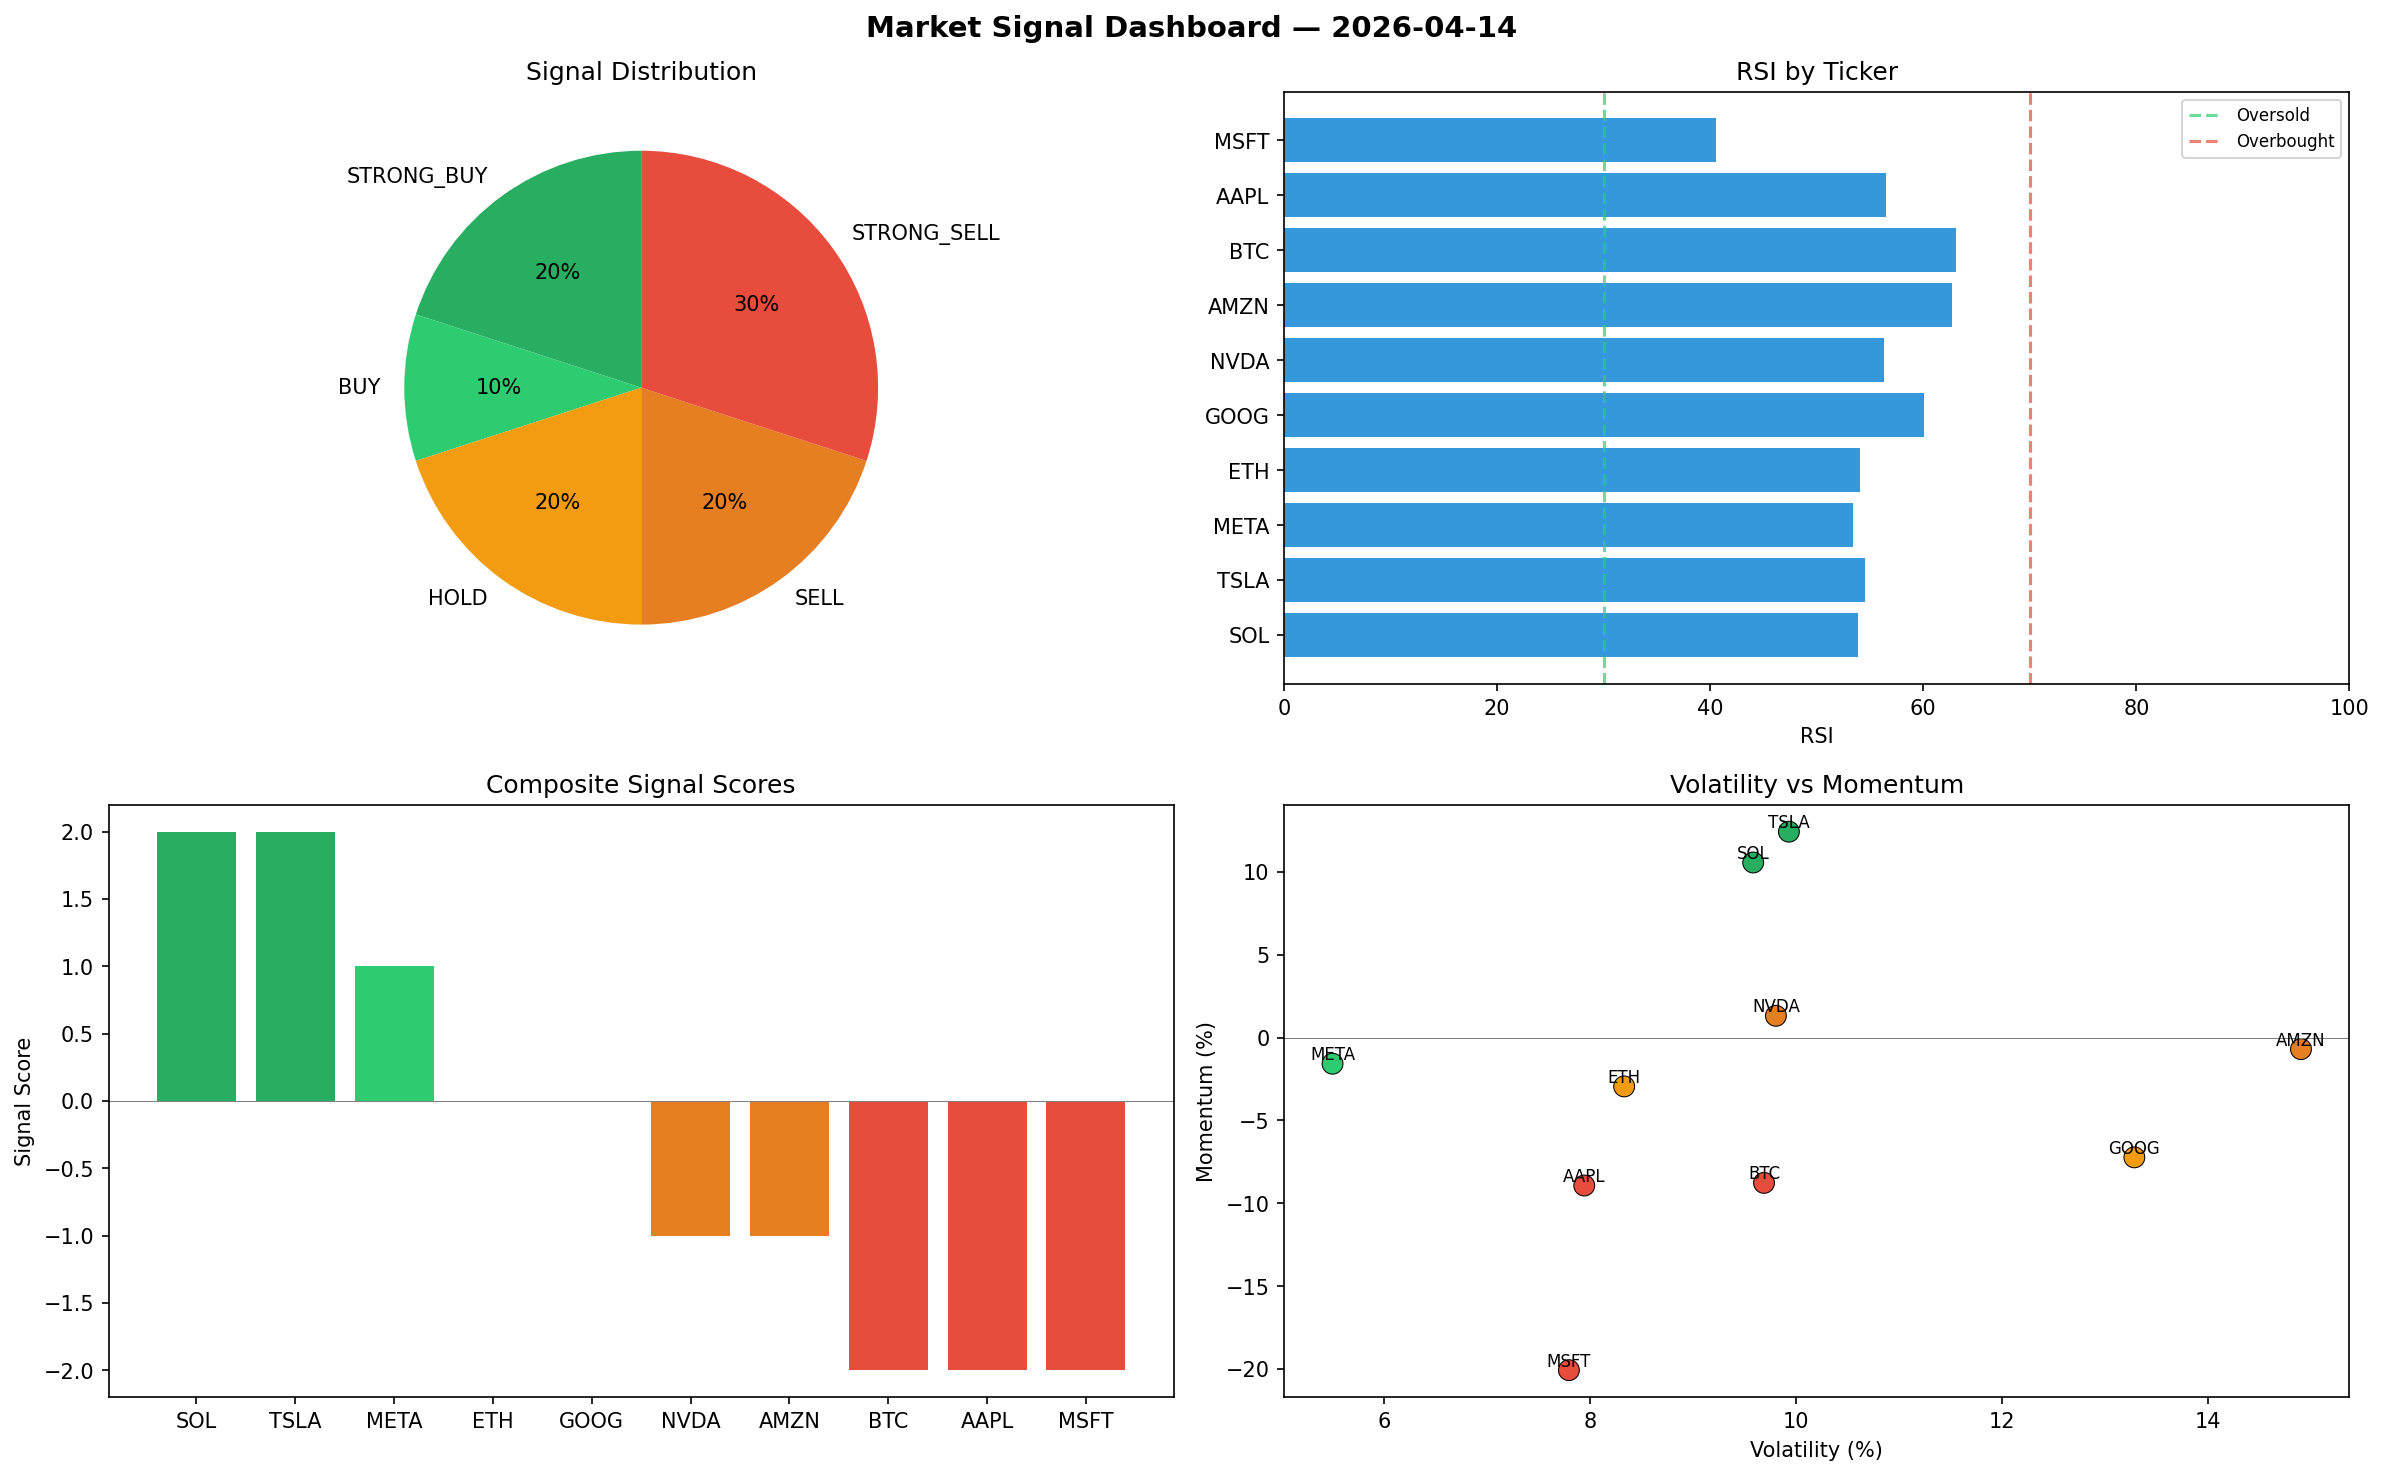
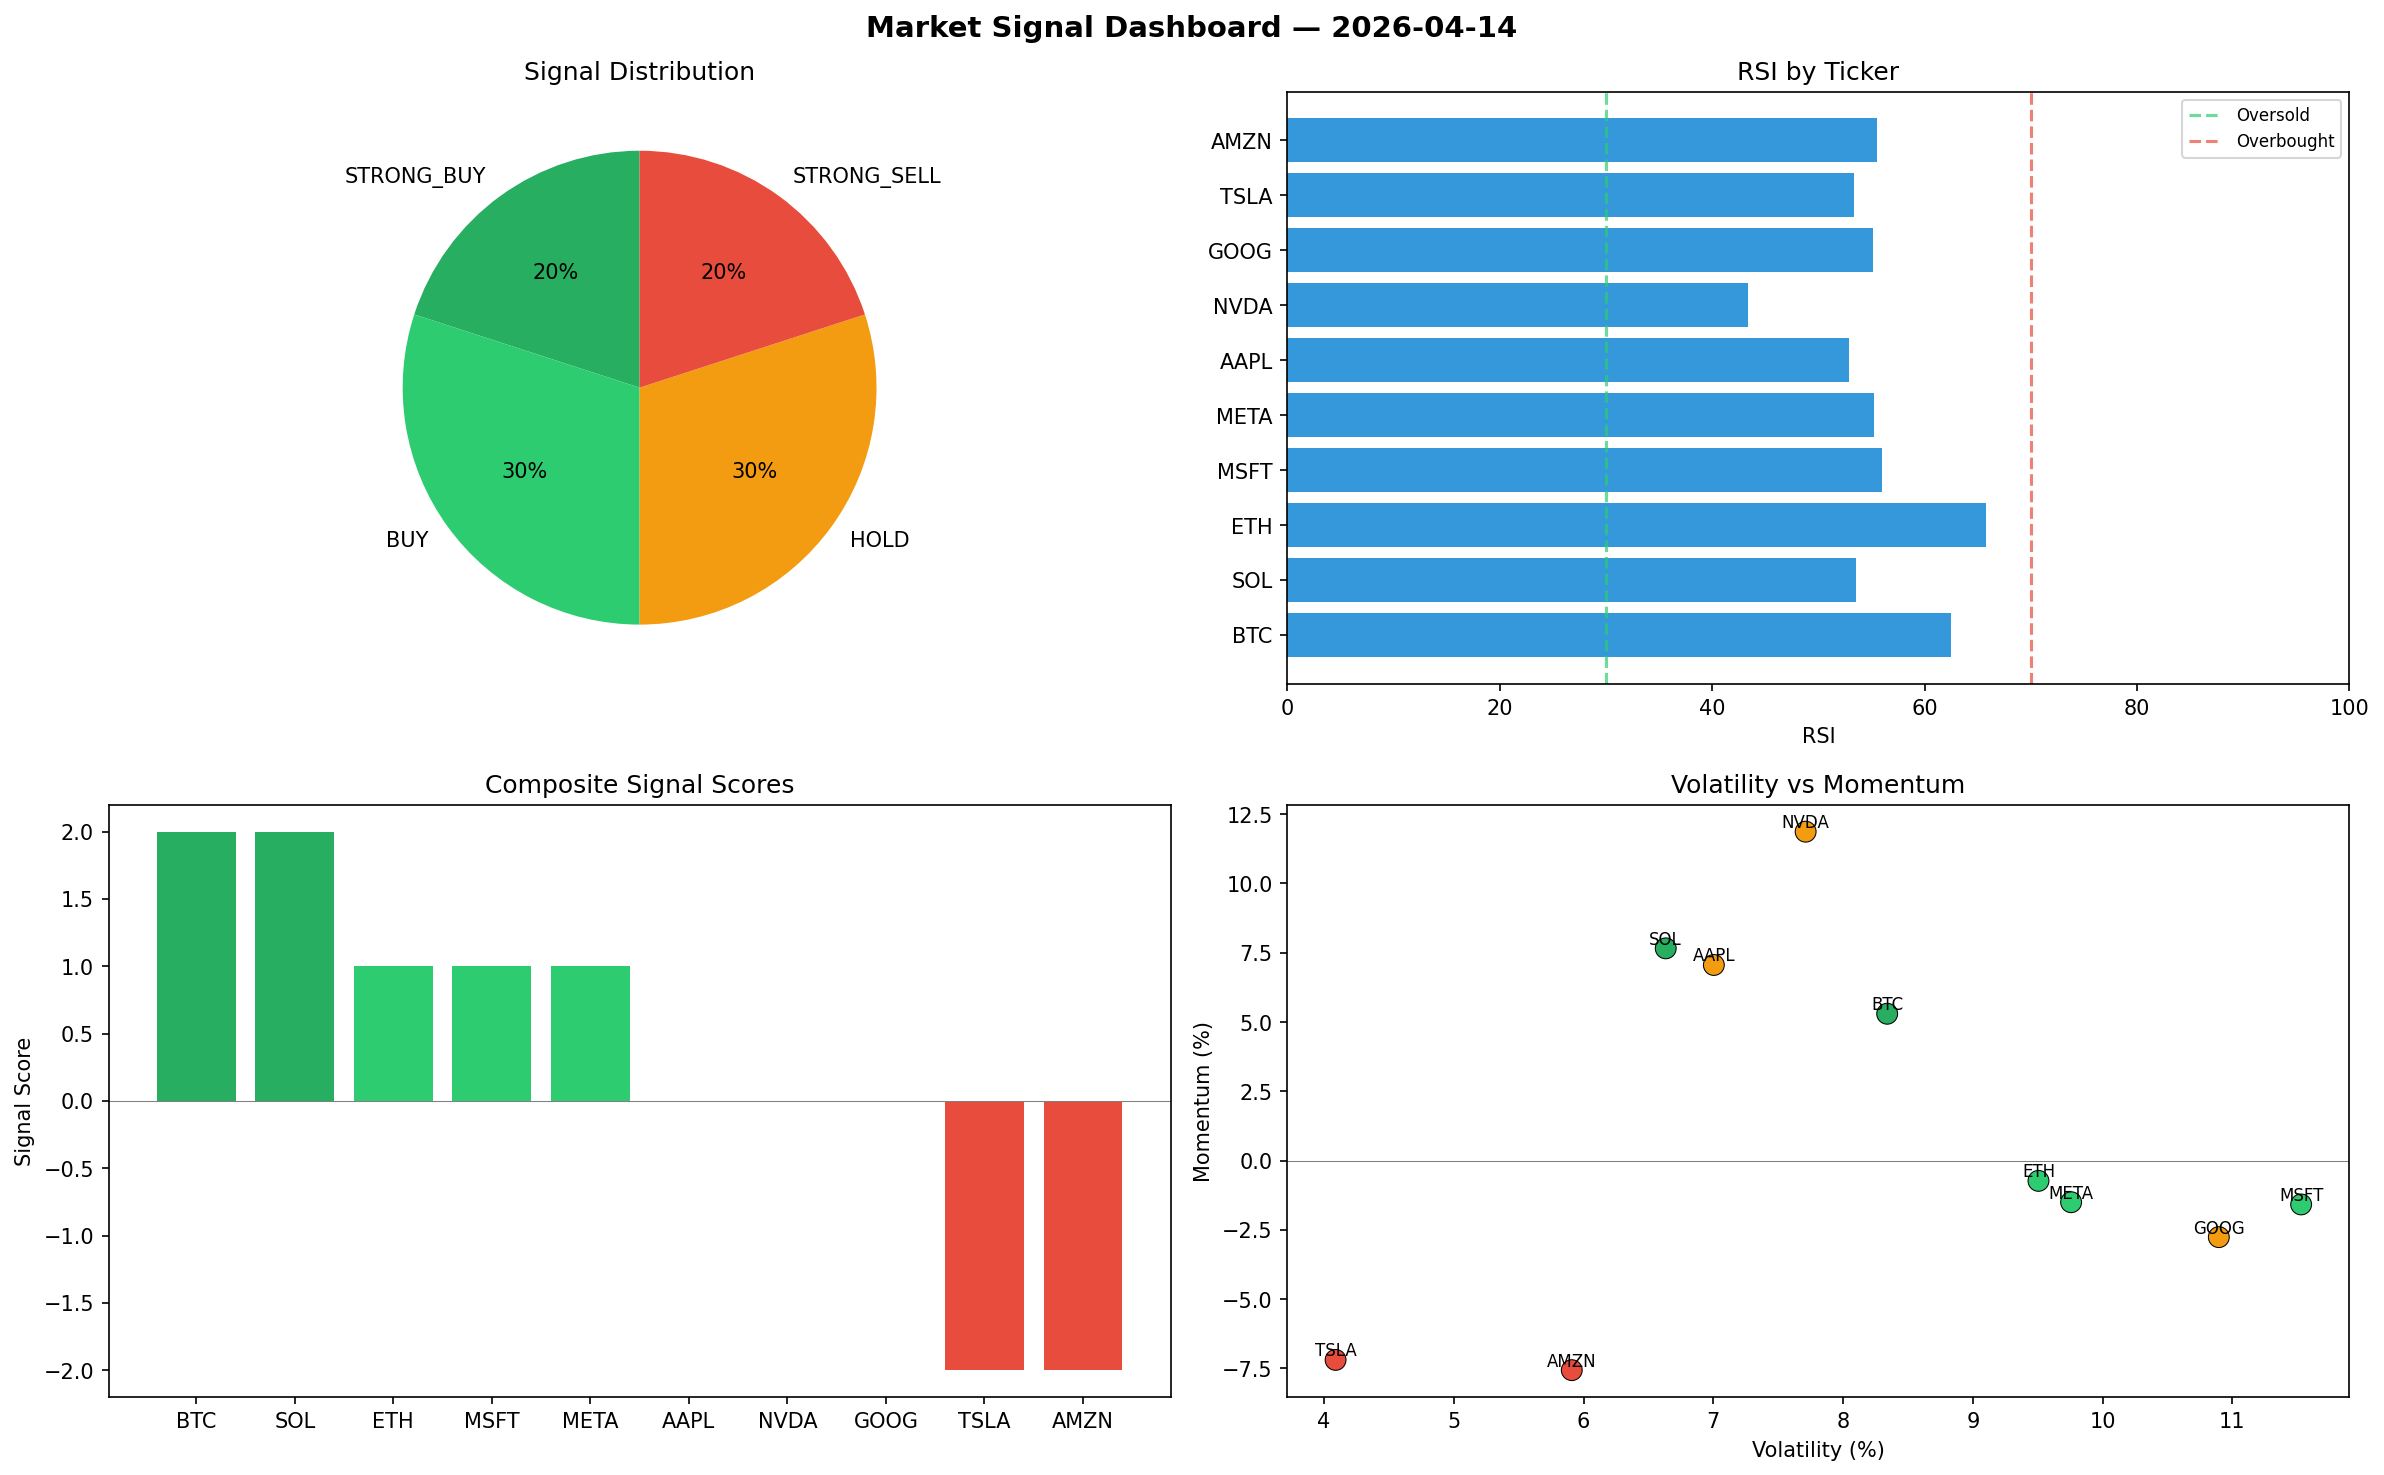
automated-bots: market signals 2026-04-14T09:53

diff --git a/logs/2026-04-14.md b/logs/2026-04-14.md
@@ -1,6 +1,6 @@
 # Market Signal Report — 2026-04-14
 
-**Run ID:** `b0e3338cef` | **Buy:** 3 | **Sell:** 5 | **Hold:** 2
+**Run ID:** `34f937ca50` | **Buy:** 5 | **Sell:** 2 | **Hold:** 3
 
 ![Dashboard](2026-04-14_dashboard.png)
 
@@ -8,28 +8,28 @@
 
 | Ticker | Price | Signal | Score | RSI | Momentum | Confidence |
 |--------|-------|--------|-------|-----|----------|------------|
-| SOL | $4181.54 | **STRONG_BUY** | 2 | 53.83 | 0.1056 | 0.5 |
-| TSLA | $1337.82 | **STRONG_BUY** | 2 | 54.53 | 0.1242 | 0.5 |
-| META | $4056.34 | **BUY** | 1 | 53.38 | -0.0158 | 0.25 |
-| ETH | $3274.8 | **HOLD** | 0 | 54.09 | -0.0295 | 0.0 |
-| GOOG | $2450.97 | **HOLD** | 0 | 60.09 | -0.0723 | 0.0 |
-| NVDA | $547.08 | **SELL** | -1 | 56.27 | 0.0131 | 0.25 |
-| AMZN | $4447.52 | **SELL** | -1 | 62.74 | -0.007 | 0.25 |
-| BTC | $2976.17 | **STRONG_SELL** | -2 | 63.06 | -0.0877 | 0.5 |
-| AAPL | $453.6 | **STRONG_SELL** | -2 | 56.54 | -0.0893 | 0.5 |
-| MSFT | $80.95 | **STRONG_SELL** | -2 | 40.55 | -0.2007 | 0.5 |
+| BTC | $2625.03 | **STRONG_BUY** | 2 | 62.48 | 0.053 | 0.5 |
+| SOL | $4375.98 | **STRONG_BUY** | 2 | 53.52 | 0.0766 | 0.5 |
+| ETH | $544.89 | **BUY** | 1 | 65.8 | -0.0073 | 0.25 |
+| MSFT | $4157.05 | **BUY** | 1 | 55.95 | -0.0158 | 0.25 |
+| META | $2600.38 | **BUY** | 1 | 55.21 | -0.015 | 0.25 |
+| AAPL | $2343.65 | **HOLD** | 0 | 52.86 | 0.0706 | 0.0 |
+| NVDA | $1981.56 | **HOLD** | 0 | 43.4 | 0.1187 | 0.0 |
+| GOOG | $1870.33 | **HOLD** | 0 | 55.11 | -0.0276 | 0.0 |
+| TSLA | $3343.24 | **STRONG_SELL** | -2 | 53.32 | -0.0719 | 0.5 |
+| AMZN | $3291.71 | **STRONG_SELL** | -2 | 55.49 | -0.0756 | 0.5 |
 
 ## Delta vs Yesterday
 
 | Ticker | Today | Yesterday | Price Change | Signal Changed |
 |--------|-------|-----------|-------------|----------------|
-| SOL | STRONG_BUY | STRONG_BUY | 📈 5015.03% | — |
-| TSLA | STRONG_BUY | STRONG_BUY | 📈 3.63% | — |
-| META | BUY | STRONG_SELL | 📈 31.89% | ⚠ YES |
-| ETH | HOLD | HOLD | 📈 43.35% | — |
-| GOOG | HOLD | STRONG_SELL | 📈 23.77% | ⚠ YES |
-| NVDA | SELL | HOLD | 📉 -54.66% | ⚠ YES |
-| AMZN | SELL | BUY | 📈 21.45% | ⚠ YES |
-| BTC | STRONG_SELL | HOLD | 📈 127.45% | ⚠ YES |
-| AAPL | STRONG_SELL | HOLD | 📉 -65.71% | ⚠ YES |
-| MSFT | STRONG_SELL | SELL | 📉 -98.26% | ⚠ YES |
+| BTC | STRONG_BUY | HOLD | 📈 100.61% | ⚠ YES |
+| SOL | STRONG_BUY | STRONG_BUY | 📈 5252.88% | — |
+| ETH | BUY | HOLD | 📉 -76.15% | ⚠ YES |
+| MSFT | BUY | SELL | 📉 -10.79% | ⚠ YES |
+| META | BUY | STRONG_SELL | 📉 -15.45% | ⚠ YES |
+| AAPL | HOLD | HOLD | 📈 77.18% | — |
+| NVDA | HOLD | HOLD | 📈 64.21% | — |
+| GOOG | HOLD | STRONG_SELL | 📉 -5.55% | ⚠ YES |
+| TSLA | STRONG_SELL | STRONG_BUY | 📈 158.98% | ⚠ YES |
+| AMZN | STRONG_SELL | BUY | 📉 -10.11% | ⚠ YES |
